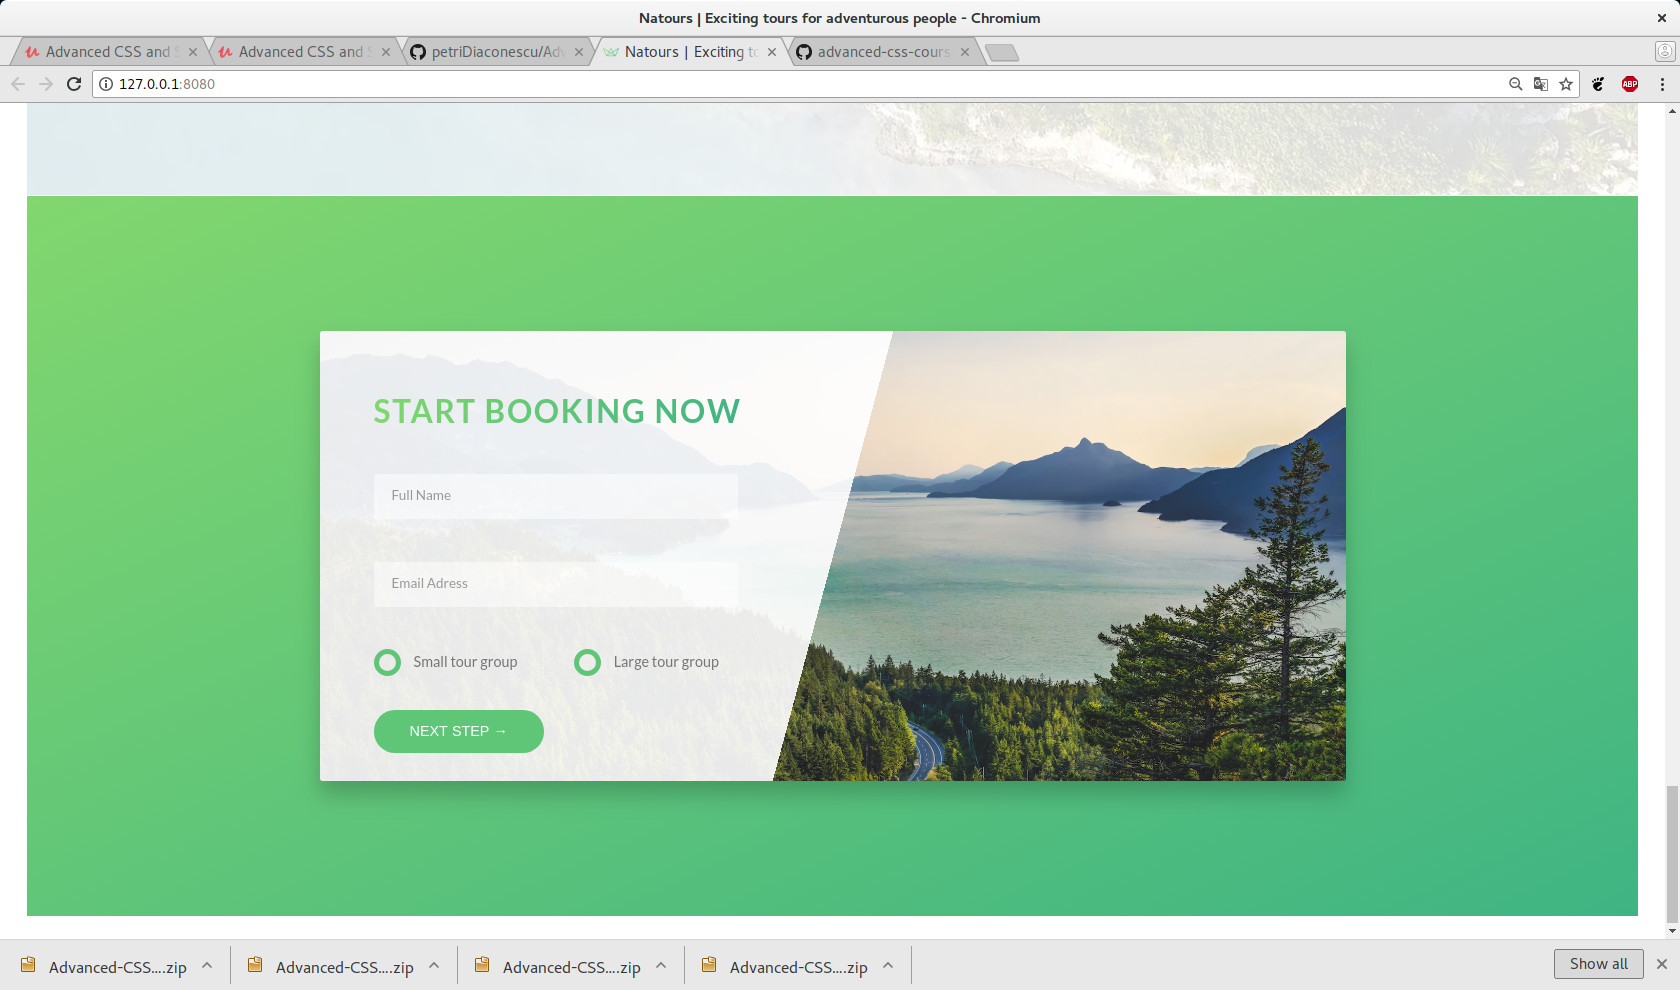
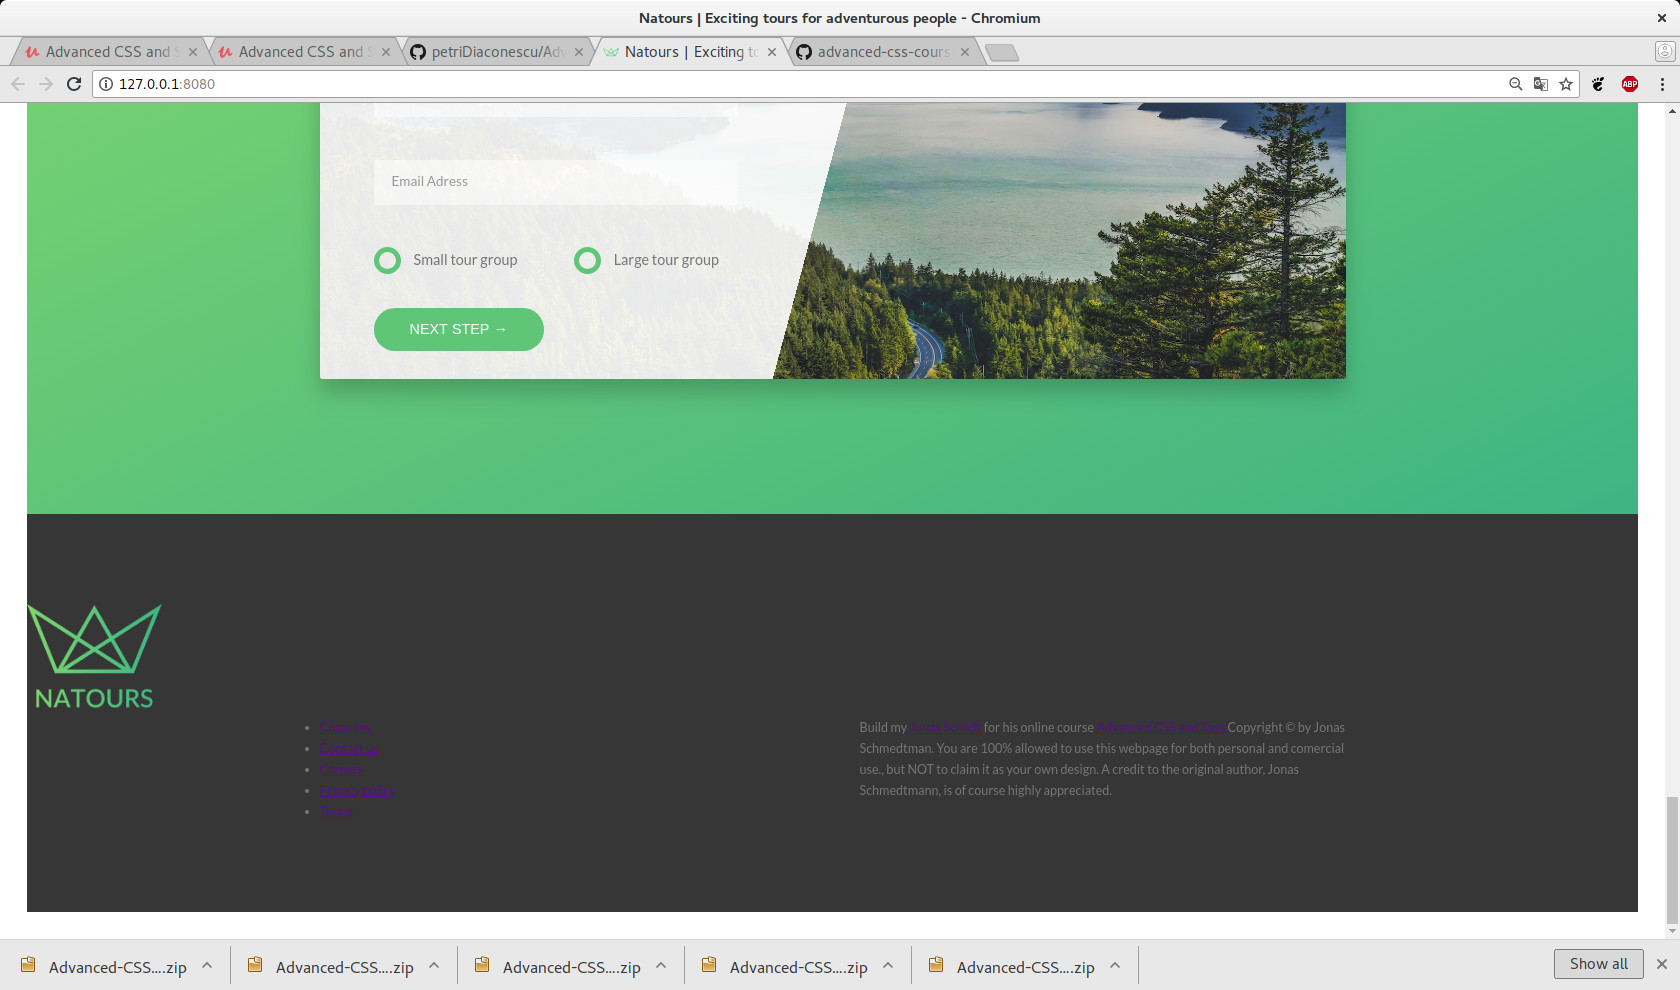
First stylesheets for footer.

diff --git a/sass/layout/_footer.scss b/sass/layout/_footer.scss
@@ -1,0 +1,32 @@
+.footer {
+  background-color: $color-gray-dark-3;
+  padding: 10rem 0;
+  font-size: 1.4rem;
+  
+  &__logo-box {
+    
+  }
+  
+  &__logo {
+    width: 15rem;
+    height: auto;
+    
+  }
+  
+  &__navigation {
+    
+  }
+  
+  &__list {
+    
+  }
+  
+  &__item {
+    
+  }
+  
+  &__link {
+    
+  }
+}
+

diff --git a/index.html b/index.html
@@ -327,7 +327,7 @@
       
       <footer class="footer">
         <div class="footer__logo-box">
-          <img src="img/logo-green-2x.jpg" alt="Full logo" class="footer__logo"/>
+          <img src="img/logo-green-2x.png" alt="Full logo" class="footer__logo"/>
         </div>
         
         <div class="row">

diff --git a/sass/abstracts/_variables.scss b/sass/abstracts/_variables.scss
@@ -14,6 +14,8 @@ $color-grey-light-2: #eee;
 
 $color-gray-dark: #777;
 $color-gray-dark-2: #999;
+$color-gray-dark-3: #333;
+
 $color-white: #fff;
 $color-black: #000;
 

diff --git a/sass/main.scss b/sass/main.scss
@@ -17,6 +17,7 @@
 
 @import "layout/grid";
 @import "layout/header";
+@import "layout/footer";
 
 
 @import 'pages/home';
